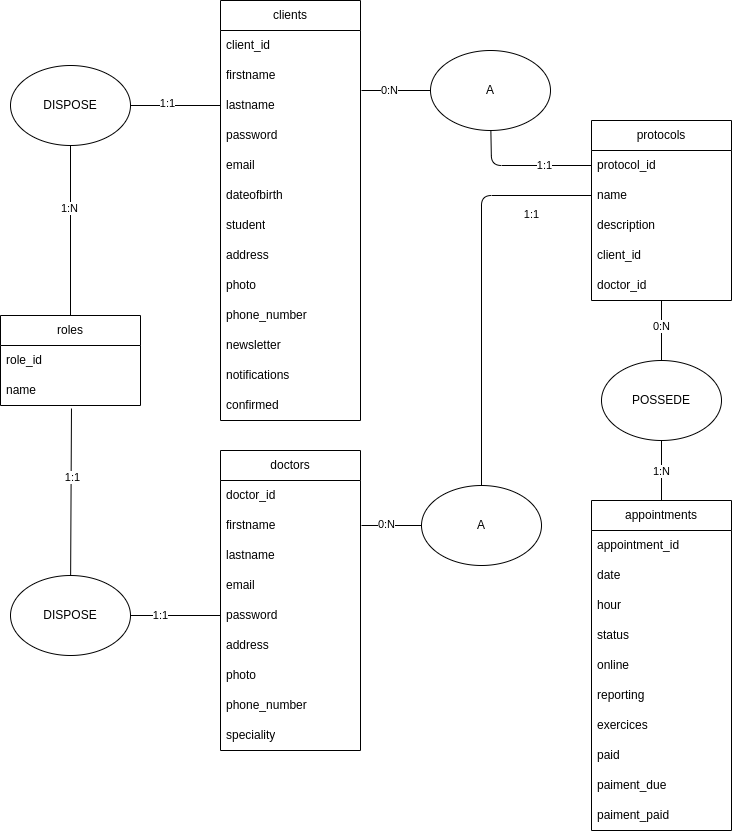
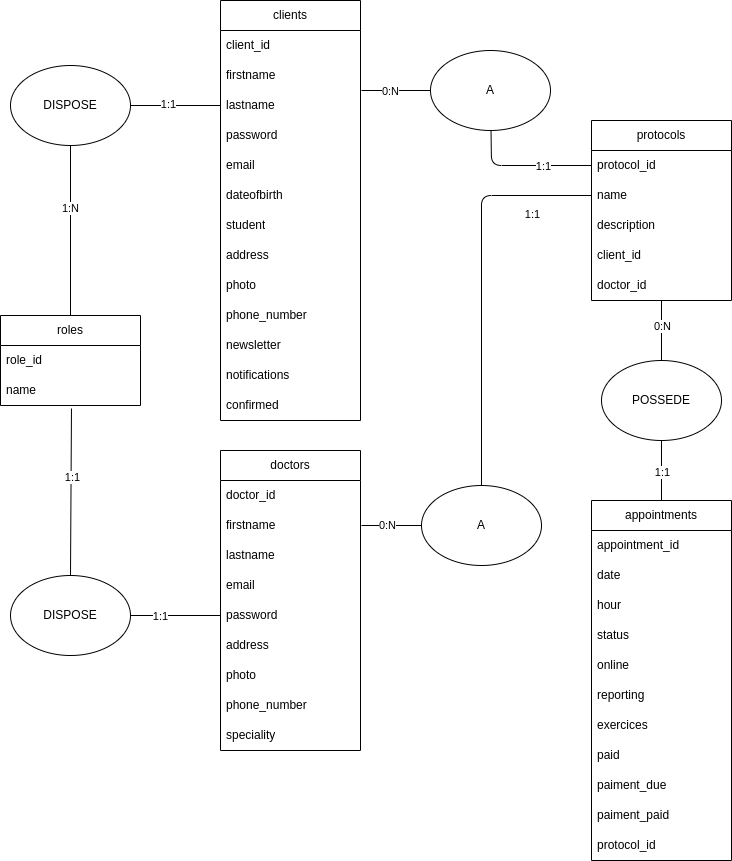
CORRECTION mcd + mld + models sequelize en relation oneToMany

diff --git a/app/models/index.js b/app/models/index.js
@@ -25,15 +25,13 @@ Protocol.belongsTo(Doctor, {
 });
 
 // Relation PROTOCOL - APPOINTMENT
-Protocol.belongsToMany(Appointment, {
-    through: "protocols_has_appointments",
+Protocol.hasMany(Appointment, {
     foreignKey: "protocol_id",
     as: "appointments"
 });
-Appointment.belongsToMany(Protocol, {
-    through: "protocols_has_appointments",
+Appointment.belongsTo(Protocol, {
     foreignKey: "appointment_id",
-    as: "protocols"
+    as: "protocol"
 })
 
 // Relation ROLE - CLIENT

diff --git a/app/models/Appointment.js b/app/models/Appointment.js
@@ -41,12 +41,9 @@ Appointment.init(
             type: DataTypes.NUMBER,
             allowNull: true,
         },
-        client_id: {
+        protocol_id: {
             type: DataTypes.INTEGER,
-        },
-        doctor_id: {
-            type: DataTypes.INTEGER,
-            defaultValue: 1,
+            allowNull: false,
         },
     }, 
     {
